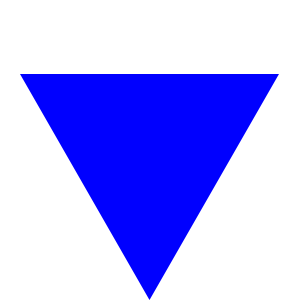
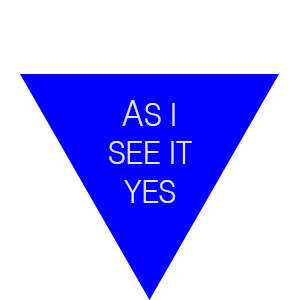
Added temporary answers

diff --git a/public/p5_magic_8_ball_rayco/main.js b/public/p5_magic_8_ball_rayco/main.js
@@ -1,60 +1,38 @@
 var radius = 200;
 var bg;
+var title;
 var texture_8ball;
 var alpha = 0;
 var beta = 0;
 var gamma = 0;
-var count = 0;
-var total = 0;
+var isTurned = false;
 var pRotationXY = 0;
 var theta = {};
 var dTheta = 0;
-var scaleXY = 0;
+var triangleScale = 0;
+var lightScale = 0;
 var triangleRotation = 0;
 var turnCount = 0;
 var button;
-var shakeStatus = 0;
+var pseudoShakeStatus = 0;
 var pseudoAccX = 0;
 var pseudoAccY = 0;
 var targetPseudoAccX = 0;
 var targetPseudoAccY = 0;
 var dPseudoAccX = 0;
 var dPseudoAccY = 0;
-
-var answer = [
-    "It is certain.",
-    "It is decidedly so.",
-    "Without a doubt.",
-    "Yes - definitely.",
-    "You may rely on it.",
-    "As I see it, yes.",
-    "Most likely.",
-    "Outlook good.",
-    "Yes.",
-    "Signs point to yes.",
-    "Reply hazy, try again.",
-    "Ask again later.",
-    "Better not tell you now.",
-    "Cannot predict now.",
-    "Concentrate and ask again.",
-    "Don't count on it.",
-    "My reply is no.",
-    "My sources say no.",
-    "Outlook not so good.",
-    "Very doubtful.",
-];
-var answerIndex = (Math.random() * answer.length) | 0;
+var center = {};
+var answerLength = 20;
 
 function preload() {
     bg = loadImage("assets/bg.jpg");
-    triangle = loadImage("assets/triangle.png");
+    title = loadImage("assets/title.png");
     texture_8ball = loadImage("assets/8ball.jpg");
 }
 
 function setup() {
     createCanvas(600, 900, WEBGL);
     mouseRate = HALF_PI / radius;
-    triangleRotation = -0.11 * HALF_PI + Math.random() * 0.22 * HALF_PI;
     // setShakeThreshold(30);
 
     button = createButton('SHAKE');
@@ -75,49 +53,67 @@ function draw(){
         plane(width, height);
     pop();
 
+    //title
+    push();
+        translate(0, -0.35 * height, 0);
+        texture(title);
+        plane(540, 207);
+    pop();
+
     //ball
     push();
-        if (total < 3) {
-            if (!mouseIsPressed && shakeStatus == 0) {
+        if (!isTurned) {
+            if (!mouseIsPressed && pseudoShakeStatus == 0) {
+                //device is shaken
                 theta = {x: accelerationY * 0.03, y: -HALF_PI + accelerationX * 0.03}
             }
-            else if (!mouseIsPressed && shakeStatus != 0) {
+            else if (pseudoShakeStatus != 0) {
+                //shake button is pressed
                 theta = {x: pseudoAccY * 0.03, y: -HALF_PI + pseudoAccX * 0.03}
-                if (shakeStatus == 1 && Math.abs(pseudoAccX - targetPseudoAccX) > Math.abs(dPseudoAccX)) {
+                if (pseudoShakeStatus == 1 && Math.abs(pseudoAccX - targetPseudoAccX) > Math.abs(dPseudoAccX)) {
                     pseudoAccX += dPseudoAccX;
                     pseudoAccY += dPseudoAccY;
-                    console.log(1, pseudoAccX, targetPseudoAccX, dPseudoAccX);
                 }
-                else if (shakeStatus != 0){
-                    if (shakeStatus == 1) {
-                        shakeStatus = -1;
+                else if (pseudoShakeStatus != 0){
+                    if (pseudoShakeStatus == 1) {
+                        pseudoShakeStatus = -1;
+                        dPseudoAccX = (-pseudoAccX) / 8;
+                        dPseudoAccY = (-pseudoAccY) / 8;
                     }
-                    pseudoAccX -= dPseudoAccX;
-                    pseudoAccY -= dPseudoAccY;
-                    console.log(-1, pseudoAccX, dPseudoAccX);
-
+                    pseudoAccX += dPseudoAccX;
+                    pseudoAccY += dPseudoAccY;
                     if (Math.abs(pseudoAccX) < Math.abs(dPseudoAccX)) {
-                        shakeStatus = 0;
+                        pseudoShakeStatus = 0;
+                        pseudoAccX = 0;
+                        pseudoAccY = 0;
                     }
                 }
             }
-            else if (Math.abs(mouseY - 0.5 * height) < 0.35 * height) {
-                theta = {x: -(mouseY - 0.5 * height) * mouseRate, y: -HALF_PI + (mouseX - 0.5 * width) * mouseRate};
+            else {//if (Math.abs(mouseY - 0.5 * height) < 0.35 * height) {
+                //mouse is dragged
+                theta = {x: -(mouseY - center.y) * mouseRate, y: -HALF_PI + (mouseX - center.x) * mouseRate};
                 let mouseDrag = {sum: theta.x + theta.y + HALF_PI, absSum: Math.abs(theta.x) + Math.abs(theta.y + HALF_PI)};
                 if (mouseDrag.absSum > 0.71 * HALF_PI && mouseDrag.sum * pRotationXY <= 0) {
                     pRotationXY = mouseDrag.sum < 0 ? -1 : 1;
                 }
             }
+            // else {
+            //     // ball is resting
+            //     // theta = {x: 0, y: -HALF_PI}
+            //     // console.log(dist(mouseX, mouseY, 0, 0), radius);
+            // }
             rotateX(theta.x);
             rotateY(theta.y);
         }
         else if (Math.abs(theta.x - PI) > Math.abs(dTheta.x)){
+            // ball is turning over
             rotateX(theta.x);
             rotateY(theta.y);
             theta.x += dTheta.x;
             theta.y += dTheta.y;
         }
         else {
+            // ball has been turned over
             rotateX(PI);
             rotateY(-HALF_PI);
         }
@@ -127,50 +123,64 @@ function draw(){
         sphere(radius);
     pop();
 
-    if (total >= 3 && Math.abs(theta.x - PI) <= Math.abs(dTheta.x)) {
+    if (isTurned && Math.abs(theta.x - PI) <= Math.abs(dTheta.x)) {
         push();
             translate(0, 0, 2 * radius);
             rotateZ(triangleRotation);
             fill(123, 12, 42, 128);
             texture(triangle);
-            plane(108 * scaleXY, 94 * scaleXY);
-            if (scaleXY < 1) {
-                scaleXY += 1/8;
+            plane(108 * triangleScale, 94 * triangleScale);
+            if (triangleScale < 1) {
+                triangleScale += 1/28;
+                lightScale += 1/28;
                 // dRotation +=
             }
         pop();
     }
 
     //lighting
-    pointLight(255, 255, 255, 0, 0, (2 + 8 * scaleXY) * radius);
-    pointLight(255, 255, 255, 0, 0, (2 + 8 * scaleXY) * radius);
-    pointLight(255, 255, 255, 0, 0, (2 + 8 * scaleXY) * radius);
-    pointLight(255, 255, 255, 0, 0, (2 + 8 * scaleXY) * radius);
+    // ambientLight(222);
+    // pointLight(255, 255, 255, 0, 0, (2 + 8 * lightScale) * radius);
+    // pointLight(255, 255, 255, 0, 0, (2 + 8 * lightScale) * radius);
+    // pointLight(255, 255, 255, 0, 0, (2 + 8 * lightScale) * radius);
+    // pointLight(255, 255, 255, 0, 0, (2 + 8 * lightScale) * radius);
 }
 
 function pseudoShake(){
-    pseudoAccX = 0;
-    pseudoAccY = 0;
-    targetPseudoAccX = -50 + 100 * Math.random();
-    targetPseudoAccY = -50 + 100 * Math.random();
-    dPseudoAccX = targetPseudoAccX / 6;
-    dPseudoAccY = targetPseudoAccY / 6;
-    shakeStatus = 1;
+    if (pseudoAccX == 0) {
+        targetPseudoAccX = -60 + 2*60 * Math.random();
+        targetPseudoAccY = -60 + 2*60 * Math.random();
+    }
+    else {
+        targetPseudoAccX = -targetPseudoAccX - 0.5*60 + 2*0.5*60 * Math.random();
+        targetPseudoAccY = -targetPseudoAccY - 0.5*60 + 2*0.5*60 * Math.random();
+    }
+    dPseudoAccX = (targetPseudoAccX - pseudoAccX) / 8;
+    dPseudoAccY = (targetPseudoAccY - pseudoAccY) / 8;
+    pseudoShakeStatus = 1;
+    isTurned = false;
 }
 
-function deviceTurned(e) {
-    console.log(turnAxis);
+function deviceTurned() {
   if (turnAxis === 'X' || turnAxis === undefined) {
       ++turnCount;
       if (turnCount >= 2 || turnAxis === undefined) {
-          scaleXY = 0;
-          theta = {x: 0, y: -HALF_PI}
+          triangle = loadImage("assets/triangle"+((Math.random() * answerLength) | 0)+".png");
+          triangleRotation = -0.11 * HALF_PI + Math.random() * 0.22 * HALF_PI;
+          triangleScale = 0;
+          if (isTurned) {
+              theta.x = PI;
+          }
           dTheta = {x: (PI - theta.x)/60, y: (-HALF_PI - theta.y)/60};
-          total = 3;
+          isTurned = true;
       }
   }
 }
-// accelerometer Data
+
+function mousePressed(e) {
+    center = {x: mouseX, y: mouseY};
+}
+// // accelerometer data
 // window.addEventListener('deviceorientation', function(e) {
 //   alpha = isFinite(e.alpha) ? e.alpha : 0;
 //   beta = isFinite(e.beta) ? e.beta : 0;
